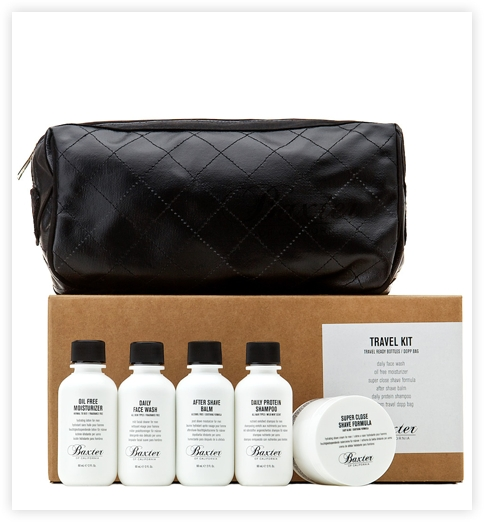
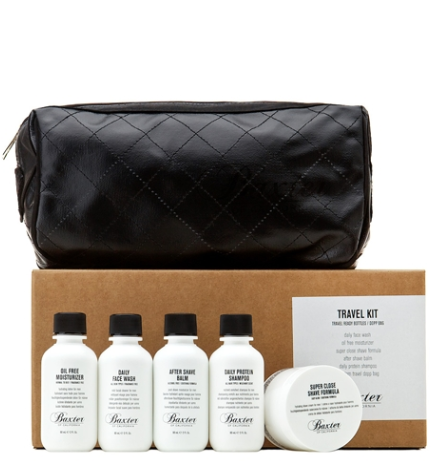
Заменил фото в Item card page на бестеневые. Убрал какой-то непонятный мусор из style.css

diff --git a/css/style.css b/css/style.css
@@ -342,12 +342,9 @@ a.catalog-header-logo {
 }
 
 .catalog-main h1 {
-<<<<<<< HEAD
 	margin-top: 57px;
-=======
 	margin-top: 58px;
 	margin-bottom: 24px;
->>>>>>> 3c42f416e6610b4e3c6215fb6a0862fd8d7e2f47
 	letter-spacing: 1px;
 }
 
